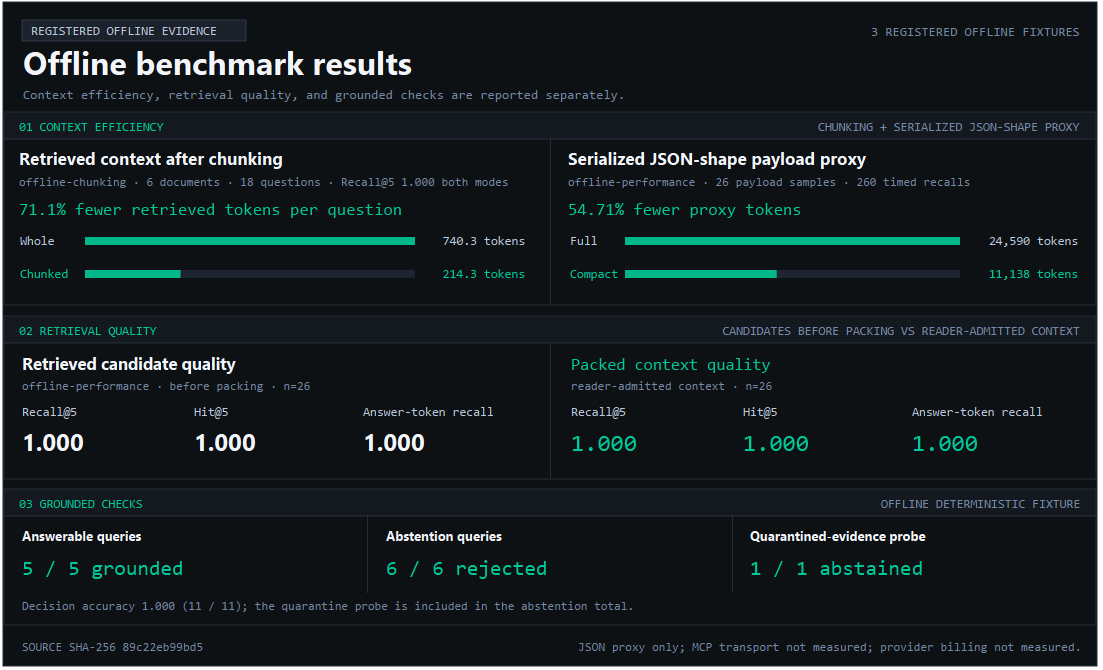
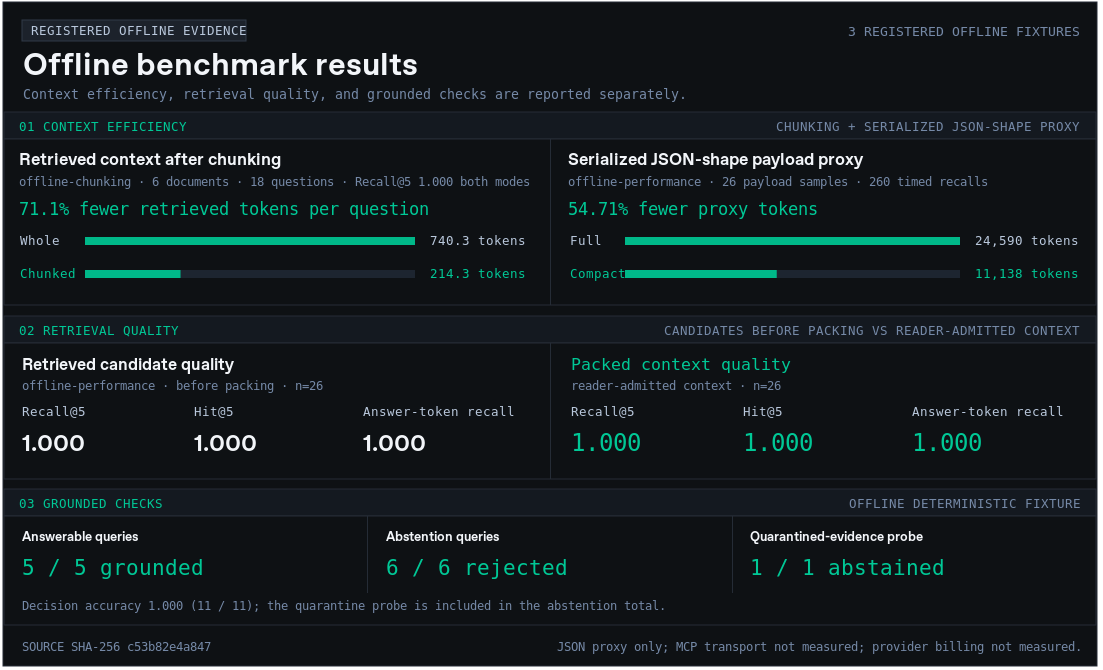
fix(jev): preserve offline review and enforce advisory deadlines
Restore canonical v149 integrity, guard Latest promotion after uploads, and bind fresh immutable offline evidence. Preserve external Ask/UI fixes and qualify offline provider and workspace fixtures.

diff --git a/tests/test_release_qualification.py b/tests/test_release_qualification.py
@@ -413,6 +413,67 @@ fi
 
 
 @pytest.mark.skipif(os.name == "nt", reason="release workflow executes in Linux bash")
+@pytest.mark.parametrize("post_upload_latest,lookup_fails,expected", [
+    ("v1.8.0", False, False), ("v1.7.9", False, True),
+    ("unknown", False, None), ("v1.7.8", True, None),
+])
+def test_waiver_repair_rechecks_latest_after_upload(
+    tmp_path, post_upload_latest, lookup_fails, expected,
+):
+    yaml = pytest.importorskip("yaml")
+    bash = shutil.which("bash")
+    if bash is None:
+        pytest.skip("bash is unavailable")
+    root = Path(__file__).resolve().parents[1]
+    workflow = yaml.safe_load((root / ".github/workflows/release.yml").read_text("utf-8"))
+    repair = next(step for step in workflow["jobs"]["github-release-repair"]["steps"]
+                  if step.get("name") == "Repair GitHub Release")
+    executable = tmp_path / "gh"
+    executable.write_text("""#!/usr/bin/env bash
+set -euo pipefail
+printf '%s\\n' "$*" >> "$GH_CALLS"
+if [ "$2" = view ]; then
+  if [ "$3" = --repo ]; then
+    if [ -e "$UPLOAD_MARKER" ]; then
+      if [ "$LOOKUP_FAILS" = true ]; then exit 7; fi
+      printf '%s\\n' "$POST_UPLOAD_LATEST"
+    else
+      printf 'v1.7.8\\n'
+    fi
+  else
+    printf 'Existing release notes\\n'
+  fi
+elif [ "$2" = upload ]; then
+  touch "$UPLOAD_MARKER"
+fi
+""", encoding="utf-8")
+    executable.chmod(0o700)
+    script = tmp_path / "repair.sh"
+    script.write_text(repair["run"], encoding="utf-8")
+    calls_path = tmp_path / "calls.txt"
+    result = subprocess.run([bash, str(script)], cwd=tmp_path, capture_output=True, text=True,
+                            timeout=20, env={**os.environ,
+                                "PATH": str(tmp_path) + os.pathsep + os.environ["PATH"],
+                                "RUNNER_TEMP": str(tmp_path), "RELEASE_TAG": "v1.7.9",
+                                "WAIVE_QUALIFICATION": "true", "GH_REPO": "test/repo",
+                                "GH_RUN_URL": "https://example.test/run/1", "GH_CALLS": str(calls_path),
+                                "UPLOAD_MARKER": str(tmp_path / "uploaded"),
+                                "POST_UPLOAD_LATEST": post_upload_latest,
+                                "LOOKUP_FAILS": str(lookup_fails).lower()})
+    calls = calls_path.read_text("utf-8").splitlines()
+    assert any(call.startswith("release upload ") for call in calls)
+    latest_reads = [call for call in calls if call.startswith("release view --repo ")]
+    assert len(latest_reads) == 2
+    promoted = any(call.endswith(" --latest") for call in calls)
+    if expected is None:
+        assert result.returncode != 0
+        assert not promoted
+    else:
+        assert result.returncode == 0, result.stderr
+        assert promoted is expected
+
+
+@pytest.mark.skipif(os.name == "nt", reason="release workflow executes in Linux bash")
 @pytest.mark.parametrize("existing,edit_fails,draft", [
     (False, False, False), (True, False, False), (True, True, False), (True, False, True),
 ])

diff --git a/tests/test_provider_error_redaction.py b/tests/test_provider_error_redaction.py
@@ -5,6 +5,7 @@ from __future__ import annotations
 import io
 import logging
 from types import SimpleNamespace
+from unittest import mock
 import urllib.error
 
 import pytest
@@ -19,6 +20,12 @@ from engraphis.backends.sync_relay import RelayError, RelayTransport, RelayUnrea
 from engraphis.core.engine import MemoryEngine
 from engraphis.llm.client import LLMClient, validate_llm_base_url
 from engraphis.routes import v2_api
+
+
+def _llm_client(http_client, **kwargs):
+    # Synthetic response/error coverage must not initialize a real HTTP transport.
+    with mock.patch.object(httpx, "Client", return_value=http_client):
+        return LLMClient(**kwargs)
 
 
 class _LLMResponseClient:
@@ -94,14 +101,13 @@ def test_llm_http_error_hides_key_url_model_and_provider_body(caplog):
     model = "private-model-owner@example.com"
     endpoint_marker = "private-customer-endpoint"
     body_marker = "provider-body-bearer-secret"
-    client = LLMClient(
+    client = _llm_client(
+        _LLMResponseClient(status=401, body=body_marker),
         provider="google",
         model=model,
         api_key=api_key,
         base_url="https://provider.example/%s" % endpoint_marker,
     )
-    client._http.close()
-    client._http = _LLMResponseClient(status=401, body=body_marker)
 
     with caplog.at_level(logging.DEBUG, logger="engraphis.llm"):
         with pytest.raises(RuntimeError) as caught:
@@ -116,12 +122,11 @@ def test_llm_http_error_hides_key_url_model_and_provider_body(caplog):
 
 def test_llm_malformed_response_does_not_reflect_provider_payload():
     marker = "malformed-provider-payload-secret"
-    client = LLMClient(
+    client = _llm_client(
+        _LLMResponseClient(status=200, body='{"private":"%s"}' % marker),
         provider="openai", model="safe-model", api_key="safe-key",
         base_url="https://provider.example",
     )
-    client._http.close()
-    client._http = _LLMResponseClient(status=200, body='{"private":"%s"}' % marker)
 
     with pytest.raises(ValueError) as caught:
         client.chat([{"role": "user", "content": "hello"}])
@@ -132,13 +137,12 @@ def test_llm_malformed_response_does_not_reflect_provider_payload():
 
 
 def test_llm_deadline_is_forwarded_without_retry_or_provider_detail_leakage():
-    client = LLMClient(
+    timeout_client = _LLMTimeoutClient()
+    client = _llm_client(
+        timeout_client,
         provider="openai", model="safe-model", api_key="safe-key",
         base_url="https://provider.example",
     )
-    client._http.close()
-    timeout_client = _LLMTimeoutClient()
-    client._http = timeout_client
 
     with pytest.raises(TimeoutError, match="exceeded its deadline") as caught:
         client.chat([{"role": "user", "content": "hello"}], timeout=0.25)

diff --git a/tests/test_jev_integration.py b/tests/test_jev_integration.py
@@ -121,6 +121,61 @@ def _backend(client):
     return JevDecisionBackend(client=client, model="test-model-1.0")
 
 
+@pytest.mark.parametrize("late", [False, True])
+def test_direct_advisory_rejects_decisions_returned_after_its_deadline(monkeypatch, late):
+    clock = [10.0]
+    monkeypatch.setattr(time, "monotonic", lambda: clock[0])
+
+    class ClockedClient(_DecisionClient):
+        def evaluate(self, *args, **kwargs):
+            clock[0] += 0.101 if late else 0.050
+            return super().evaluate(*args, **kwargs)
+
+    client = ClockedClient()
+    planner = JevAssistedQueryPlanner(_backend(client), _FixedDeterministicPlanner())
+    plan = planner.plan_with_advisory(
+        "query", timeout_s=0.1, allow_remote=True, data_classification="public",
+    )
+    alternatives = ["CACHE.get()", "cache restart path"]
+    if not late:
+        alternatives.reverse()
+    assert [route.text for route in plan.queries] == ["query", *alternatives]
+    assert plan.reason_codes[-1] == (
+        "jev_deadline_exhausted" if late else "jev_route_selected"
+    )
+    assert len(client.calls) == 1
+    assert client.calls[0]["timeout_s"] == pytest.approx(0.1)
+
+
+@pytest.mark.parametrize("selected", ["managed", "auto"])
+@pytest.mark.parametrize("injected_client", [False, True])
+def test_dashboard_preserves_injected_or_offline_backend(
+    monkeypatch, selected, injected_client,
+):
+    from engraphis.backends import jev_transport
+    from engraphis.routes import v2_api
+
+    class UninspectedClient(_DecisionClient):
+        @property
+        def is_configured(self):
+            pytest.fail("resolver must not inspect configuration before consent")
+
+    backend = JevDecisionBackend(
+        client=UninspectedClient() if injected_client else None,
+        model="test-model-1.0", offline_mode=not injected_client,
+    )
+    current_service = SimpleNamespace(engine=SimpleNamespace(
+        recall_engine=SimpleNamespace(query_planner=SimpleNamespace(decision_backend=backend)),
+    ))
+    monkeypatch.setattr(v2_api, "service", lambda: current_service)
+    monkeypatch.setattr(settings, "decision_backend", selected)
+    monkeypatch.setattr(
+        jev_transport, "EngraphisCloudDecisionClient",
+        lambda: pytest.fail("an explicit backend must be preserved"),
+    )
+    assert v2_api._dashboard_jev_backend() is backend
+
+
 def test_remote_planner_deadline_cannot_disable_local_routes():
     import threading
     from concurrent.futures import ThreadPoolExecutor

diff --git a/tests/test_session_start_hook.py b/tests/test_session_start_hook.py
@@ -67,11 +67,32 @@ class WorkspaceResolution(unittest.TestCase):
             (root / ".git").write_text("gitdir: /unused/worktree/admin", encoding="utf-8")
             self.assertEqual(self.hook.resolve_repo(nested), "project")
 
+    def test_parent_git_marker_outside_private_fixture_is_detected(self):
+        with tempfile.TemporaryDirectory() as directory:
+            host = Path(directory) / "host-project"
+            (host / ".git").mkdir(parents=True)
+            folder = host / "private-fixture" / "research"
+            folder.mkdir(parents=True)
+            self.assertEqual(self.hook.resolve_repo(folder), "host-project")
+
     def test_non_git_directory_uses_its_name(self):
         with tempfile.TemporaryDirectory() as directory:
             folder = Path(directory) / "research"
             folder.mkdir()
-            self.assertEqual(self.hook.resolve_repo(folder), "research")
+            real_exists = Path.exists
+
+            def fixture_exists(path):
+                # The fixture is non-Git even when its host's temporary root
+                # has an ancestor marker (for example, an isolated sandbox).
+                if path.name == ".git":
+                    try:
+                        path.relative_to(directory)
+                    except ValueError:
+                        return False
+                return real_exists(path)
+
+            with mock.patch.object(Path, "exists", fixture_exists):
+                self.assertEqual(self.hook.resolve_repo(folder), "research")
 
 
 class SessionRouting(unittest.TestCase):

diff --git a/tests/test_parse_provider_chain.py b/tests/test_parse_provider_chain.py
@@ -11,6 +11,16 @@ pytest.importorskip("httpx", reason="provider-chain tests require the optional H
 from engraphis.llm.client import LLMProviderChain, parse_provider_chain
 
 
+@pytest.fixture(autouse=True)
+def _synthetic_provider_clients():
+    """Parsing creates clients but must never initialize provider networking."""
+    with mock.patch("engraphis.llm.client.httpx.Client") as factory:
+        factory.return_value.post.side_effect = AssertionError(
+            "provider parsing must not send an HTTP request"
+        )
+        yield
+
+
 def _parse(env_value: str) -> LLMProviderChain:
     """Helper to parse a provider chain string without polluting real env."""
     with mock.patch.dict(os.environ, {"ENGRAPHIS_LLM_PROVIDERS": env_value}):

diff --git a/tests/test_llm_anthropic_models.py b/tests/test_llm_anthropic_models.py
@@ -3,6 +3,7 @@
 from __future__ import annotations
 
 import json
+from unittest import mock
 
 import pytest
 
@@ -31,10 +32,10 @@ class _Recorder:
 
 
 def _client(model, payload, **kwargs):
-    client = LLMClient(provider="anthropic", model=model, api_key="test-key", **kwargs)
-    client._http.close()
-    client._http = _Recorder(payload)
-    return client
+    # Install the synthetic transport before construction so request-shape
+    # coverage never depends on host proxy configuration or optional SOCKS extras.
+    with mock.patch.object(httpx, "Client", return_value=_Recorder(payload)):
+        return LLMClient(provider="anthropic", model=model, api_key="test-key", **kwargs)
 
 
 _TEXT = {"content": [{"type": "text", "text": "ok"}]}

diff --git a/tests/test_campaign_candidate.py b/tests/test_campaign_candidate.py
@@ -17,7 +17,9 @@ from eval.coding_corpus import load_corpus, run_oracle, scenario_workspace
 def _run(tmp_path, source):
     (tmp_path / "service.py").write_text(source, encoding="utf-8")
     process = subprocess.run(
-        [sys.executable, "-I", "-B", "-c", _RUNNER_SOURCE, "current_timeout", "[]", "{}"],
+        # This standalone runner uses only the stdlib; exclude test-host site
+        # initialization while retaining the same deadline and safety assertions.
+        [sys.executable, "-I", "-S", "-B", "-c", _RUNNER_SOURCE, "current_timeout", "[]", "{}"],
         cwd=tmp_path, capture_output=True, text=True, timeout=10, check=True,
     )
     return _operation_result(OracleSpec("current_timeout", (), {}, "eq", 41),

diff --git a/tests/test_historical_benchmark_integrity.py b/tests/test_historical_benchmark_integrity.py
@@ -1,0 +1,17 @@
+"""Keep retained benchmark artifacts at their advertised byte identities."""
+from __future__ import annotations
+
+import hashlib
+from pathlib import Path
+
+
+def test_retained_v149_bytes_match_the_advertised_checksum():
+    root = Path(__file__).resolve().parents[1]
+    artifact = root / "docs/benchmark-evidence/offline-fixtures-v149.json"
+    payload = artifact.read_bytes()
[1 lines of base64/hex data omitted]
+    assert payload.endswith(b"\n")
+    assert hashlib.sha256(payload).hexdigest() == expected
+    assert artifact.with_suffix(".json.sha256").read_text("ascii") == (
+        f"{expected}  {artifact.name}\n"
+    )

diff --git a/engraphis/backends/jev_decision.py b/engraphis/backends/jev_decision.py
@@ -259,6 +259,8 @@ class JevDecisionBackend:
                     return None, "fallback", "deadline_exhausted"
                 options["timeout_s"] = remaining
             response = evaluate(state, [question], **options)
+            if call_deadline is not None and time.monotonic() >= call_deadline:
+                return None, "fallback", "deadline_exhausted"
             if (response is None or getattr(response, "is_fallback", None) is not False
                     or not callable(getattr(response, "get_choice", None))
                     or not callable(getattr(response, "get_noul", None))):

diff --git a/engraphis/routes/v2_api.py b/engraphis/routes/v2_api.py
@@ -1527,7 +1527,9 @@ def _dashboard_jev_backend():
     current_service = service()
     planner = getattr(current_service.engine.recall_engine, "query_planner", None)
     backend = getattr(planner, "decision_backend", None)
-    if isinstance(backend, JevDecisionBackend) and backend.client is not None:
+    if isinstance(backend, JevDecisionBackend) and (
+        backend.client is not None or backend.offline_mode
+    ):
         return backend
     selected = settings.decision_backend.strip().lower()
     if selected in {"managed", "auto"}:

diff --git a/tests/test_benchmark_evidence.py b/tests/test_benchmark_evidence.py
@@ -33,8 +33,8 @@ from eval.performance import run as run_performance
 
 
 ROOT = Path(__file__).resolve().parents[1]
-PUBLIC_OFFLINE_ARTIFACT = "offline-fixtures-pr252-optimized-20261007.json"
[1 lines of base64/hex data omitted]
+PUBLIC_OFFLINE_ARTIFACT = "offline-fixtures-pr252-four-gap-guards-20261007.json"
[1 lines of base64/hex data omitted]
 
 
 @pytest.fixture(scope="module")

diff --git a/BENCHMARKS.md b/BENCHMARKS.md
@@ -94,14 +94,14 @@ interpretation and do not count as additional benchmark-quality gains.
 ### Public numeric evidence registry
 
 Every exact public aggregate retained below comes from the checked-in, public-safe
-[`offline-fixtures-pr252-optimized-20261007.json`](docs/benchmark-evidence/offline-fixtures-pr252-optimized-20261007.json) artifact. Its
+[`offline-fixtures-pr252-four-gap-guards-20261007.json`](docs/benchmark-evidence/offline-fixtures-pr252-four-gap-guards-20261007.json) artifact. Its
 SHA-256 is
[2 lines of base64/hex data omitted]
 adjacent `.sha256` file. The artifact contains no raw questions, answers, prompts, customer data,
 or per-record content fingerprints.
 
 The fixture-suite digest is
[2 lines of base64/hex data omitted]
 the digest algorithm and records the SHA-256 of every suite and dataset file. Each evidence ID
 also binds its exact command through `sha256(UTF-8 exact command)`:
 
@@ -126,13 +126,13 @@ grounded checks in separate panels; provider billing and MCP transport are not m
 the SVG and matching PNG with:
 
 ```bash
-python scripts/render_benchmark_report.py --report docs/benchmark-evidence/offline-fixtures-pr252-optimized-20261007.json --output docs/images/context-efficiency.svg --png-output docs/images/context-efficiency.png
+python scripts/render_benchmark_report.py --report docs/benchmark-evidence/offline-fixtures-pr252-four-gap-guards-20261007.json --output docs/images/context-efficiency.svg --png-output docs/images/context-efficiency.png
 ```
 
 The companion examples are also generated from that artifact with:
 
 ```bash
-python -m scripts.render_benchmark_examples --report docs/benchmark-evidence/offline-fixtures-pr252-optimized-20261007.json --output docs/images/evidence-backed-agent-examples.svg --png-output docs/images/evidence-backed-agent-examples.png
+python -m scripts.render_benchmark_examples --report docs/benchmark-evidence/offline-fixtures-pr252-four-gap-guards-20261007.json --output docs/images/evidence-backed-agent-examples.svg --png-output docs/images/evidence-backed-agent-examples.png
 ```
 The historical-to-executable mapping is in
 [`docs/BENCHMARK_CHANGE_COVERAGE.md`](docs/BENCHMARK_CHANGE_COVERAGE.md).
